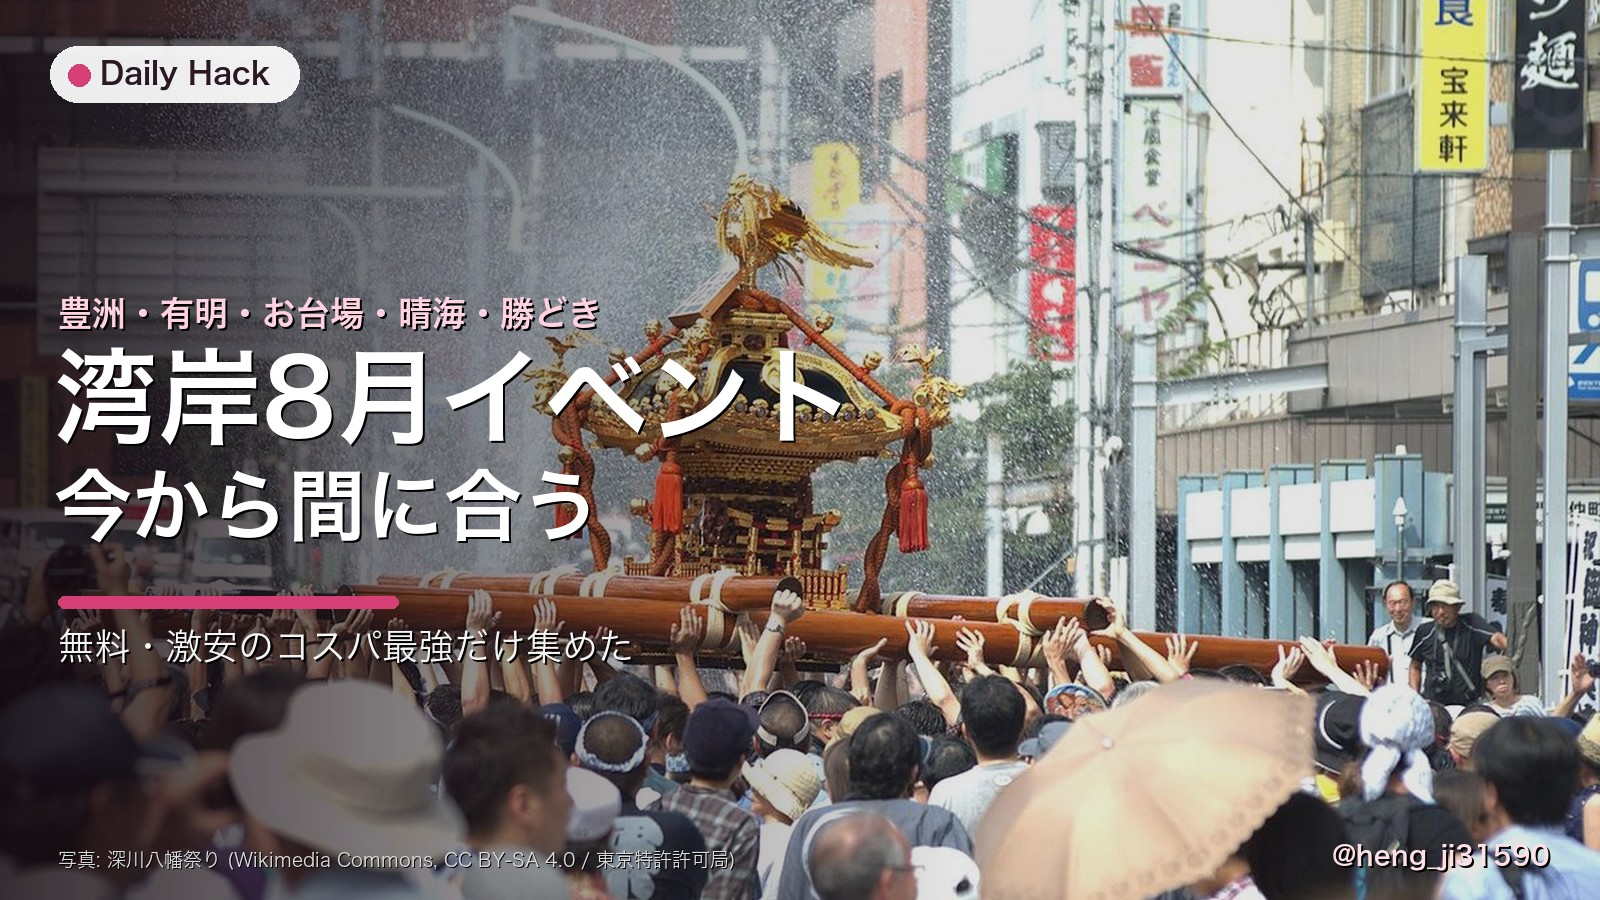
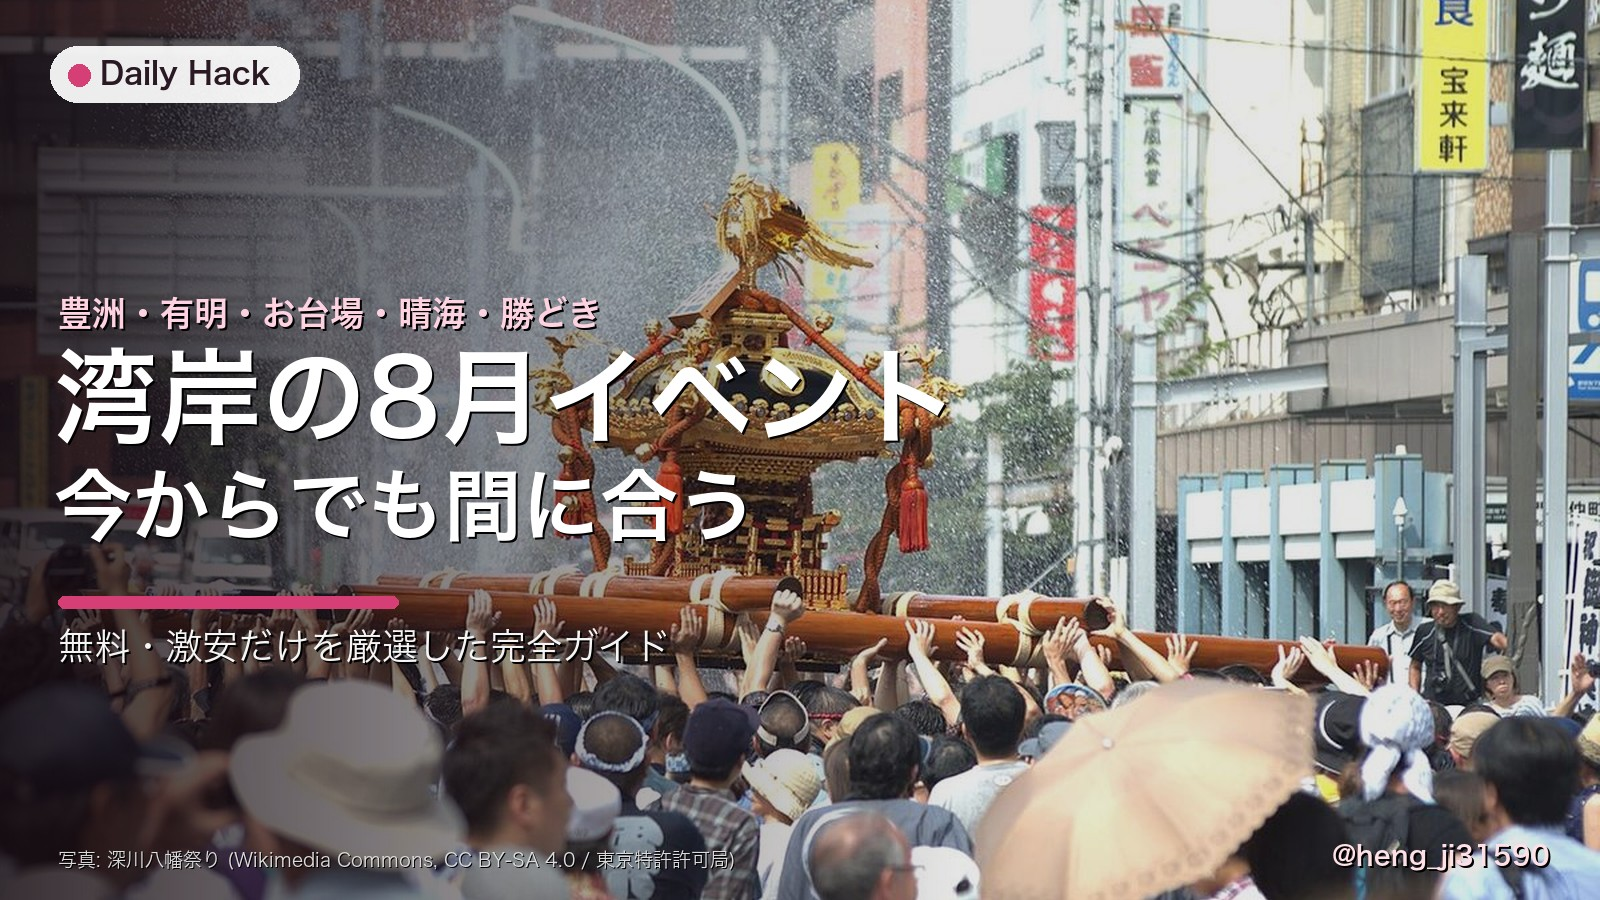
fix(wangan): タイトルの係り受け誤りを修正し、本文の数値矛盾・誇張も是正
## タイトルの日本語が壊れていた

旧: 湾岸8月イベント 今から間に合う完全ガイド 2026｜無料・激安のコスパ最強だけ集めた
新: 湾岸エリアの8月イベント完全ガイド 2026｜今からでも間に合う、無料・激安だけを厳選

- 「今から間に合う」が「完全ガイド」に係っていた。間に合うのはガイドではなく
  イベントなので、読点で切って係り先を直した
- 「湾岸8月イベント」は助詞のない名詞の羅列だったので「湾岸エリアの8月イベント」に
- 「無料・激安」と「コスパ最強」は同義の重複だったため後者を削除
- 「コスパ最強だけ集めた」は目的語が欠けていたので「無料・激安だけを厳選」に

アイキャッチ内の文言も同じ問題を抱えていたため作り直した。

## 指摘を受けて自分で読み直して見つけた問題

### 数が合っていなかった（事実誤り）
- 「今から行くならこの5つ」→ カードは実際には6枚。「まだ間に合うのはこの6つ」に
- 「盆踊りは、まだ3つ残ってる」→ 実際には4件。「まだ4つ」に

### 事実として言い過ぎていた
- 「有料のものは前売と当日の差額まで書いてある」→ 前売/当日を併記したのは
  トミカ博だけ。「割引の有無や当日券の値段まで」に修正
- 「交通費ゼロで有明を一日回せる」→ 無料バスは晴海フラッグ発着なので
  誰でも交通費ゼロにはならない。「晴海から有明までの移動をタダにできる」に改め、
  利用条件の制約も明記

### 日付に依存して後から破綻する表現
- description「今日から行けるもの」→「8月後半からでも間に合うもの」
- 本文「今日以降に行けるものだけ」→「8月後半からでもまだ間に合うものだけ」
- まとめ「今週末から動きなさい」→「次の週末から」

### その他
- 全角句点の直後に半角スペースが混入していた箇所を修正
- 「夜の水辺でジャズって、金払ってもおかしくない体験がタダ。」の主述のねじれを解消

Changed region(s): [[0.1562, 0.3733, 0.5938, 0.6222], [0.1562, 0.6844, 0.4062, 0.7467]]

diff --git a/src/content/posts/wangan-august-events-2026.md b/src/content/posts/wangan-august-events-2026.md
@@ -1,6 +1,6 @@
 ---
-title: "湾岸8月イベント 今から間に合う完全ガイド 2026｜無料・激安のコスパ最強だけ集めた"
-description: "豊洲・有明・お台場・晴海・勝どきで8月に開催されるイベントを、今日から行けるものだけ厳選。入場無料の盆踊り・野外映画・ジャズライブから、温泉を最安で入る割引ワザまで。料金は全部公式で裏取り済み。"
+title: "湾岸エリアの8月イベント完全ガイド 2026｜今からでも間に合う、無料・激安だけを厳選"
+description: "豊洲・有明・お台場・晴海・勝どきの8月イベントを、8月後半からでも間に合うものだけを厳選。入場無料の盆踊り・野外映画・ジャズライブから、温泉を最安で入る割引ワザまで。料金は全部公式で裏取り済み。"
 publishDate: 2026-08-08
 category: ["wangan-life", "roundups"]
 tags: ["湾岸", "豊洲", "有明", "お台場", "晴海", "勝どき", "イベント", "夏祭り", "盆踊り", "無料", "節約", "2026年8月"]
@@ -12,14 +12,14 @@ author: "hacker-ko"
 
 「夏、何もしないまま終わりそう」って顔してるあんた。**まだ間に合う。** 湾岸は8月後半のほうがイベント濃度が高いのよ。しかも**タダのやつが山ほどある。**
 
-アタシは中央区晴海に住んでるから毎年この時期は歩き回ってるんだけど、正直「知ってれば行ったのに」で終わってる人が多すぎる。だから**今日以降に行けるものだけ**を、料金の裏取り込みで全部並べた。有料のものは前売と当日の差額まで書いてある。
+アタシは中央区晴海に住んでるから毎年この時期は歩き回ってるんだけど、正直「知ってれば行ったのに」で終わってる人が多すぎる。だから**8月後半からでもまだ間に合うものだけ**を、料金の裏取り込みで全部並べた。有料のものは、割引の有無や当日券の値段まで書いてある。
 
 <div class="hakkako-says">
   <div class="hakkako-mascot"><img src="/images/expr-05-smug.png" alt="Daily Hackマスコット" /></div>
   <div class="hakkako-quote">先に結論。<strong>この夏いちばんコスパがいいのは「とよす夏祭り」と「豊洲公園の野外映画・ジャズ」。全部タダよ。</strong>屋台代だけ持って行けば1日遊べる。有料イベントに何千円も払う前に、まずこっちを埋めなさい。</div>
 </div>
 
-## 30秒で決めたい人へ。今から行くならこの5つ
+## 30秒で決めたい人へ。まだ間に合うのはこの6つ
 
 <div class="highlight-grid cols-3">
   <div class="highlight-item">
@@ -104,7 +104,7 @@ author: "hacker-ko"
 
 <blockquote class="twitter-tweet" data-lang="ja"><p lang="ja">#万葉倶楽部豊洲<br><br>今週末から、ららぽーと豊洲で<br>「第2回 とよす夏祭り2026」が始まります<br><br>盆踊りや射的、輪投げ、かき氷など<br>夏らしいお楽しみが盛りだくさん！<br><br>お祭りを楽しんだあとは、<br>温泉で汗を流して、涼しい館内でひと休みしませんか？</p>&mdash; 東京豊洲 万葉倶楽部【公式】 (@toyosu_manyo) <a href="https://twitter.com/toyosu_manyo/status/2084582639592145236">2026年8月4日</a></blockquote>
 
-アタシが今年いちばん推すのは**8/11（火・祝）**。 Bリーグの3クラブ（アルバルク東京・東京サンロッカーズ・東京ユナイテッドBC）が**合同でブース出展＋マスコット出演**する。しかもマスコットが盆踊りにも参加する。無料でこれは濃い。
+アタシが今年いちばん推すのは**8/11（火・祝）**。Bリーグの3クラブ（アルバルク東京・東京サンロッカーズ・東京ユナイテッドBC）が**合同でブース出展＋マスコット出演**する。しかもマスコットが盆踊りにも参加する。無料でこれは濃い。
 
 <blockquote class="twitter-tweet" data-lang="ja"><p lang="ja">［ イベント情報］<br>8/11(火･祝) アーバンドック #ららぽーと豊洲 で開催される「第2回 #とよす夏祭り2026 in アーバンドック ららぽーと豊洲」へ #アルバルク東京 #東京サンロッカーズ とともに3クラブ合同でブース出展および3クラブのマスコットが出演をいたします<br><br>当日は館内でのグリーティングや中庭ウッドデッキにて行われている盆踊りにも参加予定です！</p>&mdash; 東京ユナイテッドBC (@TUBCofficial) <a href="https://twitter.com/TUBCofficial/status/2084113403619287313">2026年8月3日</a></blockquote>
 
@@ -127,11 +127,11 @@ author: "hacker-ko"
 
 ### Toyosu Park Jazz Night 2026（8/29〜30）— 夏の締め、これも無料
 
-同じ豊洲公園で、今度は**ジャズの生演奏**。小橋琢也カルテット／トリオが出演。**入場無料**でキッチンカーも出る。夜の水辺でジャズって、金払ってもおかしくない体験がタダ。
+同じ豊洲公園で、今度は**ジャズの生演奏**。小橋琢也カルテット／トリオが出演。**入場無料**でキッチンカーも出る。夜の水辺でジャズ。金を払ってもおかしくない体験が、タダで手に入る。
 
 <p class="source-note">出典：<a href="https://toyosugururi.jp/event/style-market/entry-1048.html" target="_blank" rel="noopener">豊洲ぐるりパーク公式 TOYOSU MOVIE NIGHT 2026</a>／<a href="https://toyosugururi.jp/event/smallmarket/entry-1056.html" target="_blank" rel="noopener">同 Toyosu Park Jazz Night 2026</a>／<a href="https://prtimes.jp/main/html/rd/p/000000010.000099686.html" target="_blank" rel="noopener">豊洲パークマネジメントJV プレスリリース</a>。</p>
 
-### 盆踊りは、まだ3つ残ってる
+### 盆踊りは、まだ4つ残ってる
 
 <div class="tower-timeline">
   <div class="tl-year">
@@ -267,7 +267,7 @@ author: "hacker-ko"
 
 <blockquote class="twitter-tweet" data-lang="ja"><p lang="ja">晴海フラッグから有明ガーデンは、<br>直行バスが便利すぎる。<br><br>晴海西郵便局前から無料バスが出ていて、有明ガーデンのカードを持っているか、<br>ヴィラフォンテーヌの無料会員になっていれば利用可能。<br><br>安いと話題の有明ベルク行き放題だぜ</p>&mdash; サイパピ (@arbitrage_dad) <a href="https://twitter.com/arbitrage_dad/status/2068227317915341053">2026年6月20日</a></blockquote>
 
-トミカ博（有明GYM-EX）とセットで使えば、**交通費ゼロで有明を一日回せる。** 本数は多くないので時刻表は事前に見ておきなさい。
+トミカ博（有明GYM-EX）とセットで使えば、**晴海から有明までの移動をタダにできる。** ただし発着は晴海フラッグ側なので、誰でも使えるわけじゃない。本数も多くないので時刻表は事前に見ておきなさい。
 
 <p class="source-note">路線・運行本数・利用条件は変更されることがある。乗る前に有明ガーデン公式で最新の時刻表を確認すること。</p>
 
@@ -375,7 +375,7 @@ author: "hacker-ko"
 
 <div class="hakkako-says">
   <div class="hakkako-mascot"><img src="/images/expr-01-wave.png" alt="Daily Hackマスコット" /></div>
-  <div class="hakkako-quote">湾岸の8月は<strong>「知ってるかどうか」だけで体験の量が10倍変わる</strong>。屋台代の数千円で、盆踊りも野外映画もジャズも全部行ける。アタシは全部歩いて回れる距離に住んでるけど、電車賃払ってでも来る価値はあると思ってる。あんたに足りないのはお金じゃなくて<strong>スケジュール表</strong>よ。この記事をブックマークして、今週末から動きなさい。</div>
+  <div class="hakkako-quote">湾岸の8月は<strong>「知ってるかどうか」だけで体験の量が10倍変わる</strong>。屋台代の数千円で、盆踊りも野外映画もジャズも全部行ける。アタシは全部歩いて回れる距離に住んでるけど、電車賃払ってでも来る価値はあると思ってる。あんたに足りないのはお金じゃなくて<strong>スケジュール表</strong>よ。この記事をブックマークして、次の週末から動きなさい。</div>
 </div>
 
 <p class="source-note">この記事の情報は2026年8月8日時点。料金・日程は各主催者の公表値で、変更・中止の可能性がある。特に屋外イベントは天候の影響を受けるので、出発前に必ず公式サイトとSNSで最新情報を確認すること。</p>
